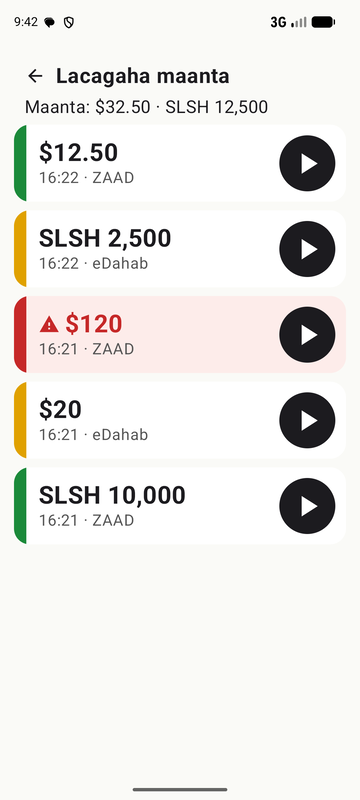
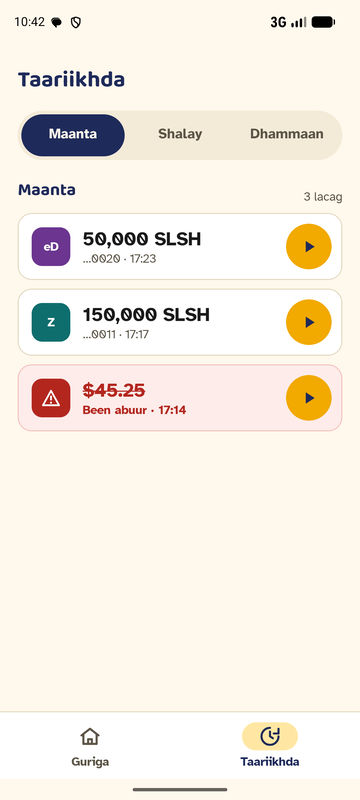
docs(readme): new screenshots and the helper settings screen

diff --git a/README.md b/README.md
@@ -2,16 +2,16 @@
 
 **Codka** ("the voice" in Somali) is an Android app for market sellers who can't read. When a Zaad or eDahab payment SMS arrives, the phone says the amount out loud in Somali, twice, so the seller knows right away if she was paid in full.
 
-> **Status:** In development. Setup, SMS → voice, and the home and history screens work. Still to come: the fake-SMS check and a pilot with sellers in Borama.
+> **Status:** In development. Setup, SMS → voice, and the home, history and helper settings screens work, in the new Codka design. Still to come: the fake-SMS check and a pilot with sellers in Borama.
 
 ## Screens
 
-| Setup (for the helper) | Home | History |
-|:---:|:---:|:---:|
-| <img src="screenshots/setup.png" width="240" alt="Setup step 1: allow SMS"> | <img src="screenshots/home.png" width="240" alt="Home: last payment in big digits and a replay button"> | <img src="screenshots/history.png" width="240" alt="History: today's payments with play buttons; a suspicious one in red"> |
-| One step per screen: SMS, battery, App Launch (Tecno/Infinix/itel), voice test | The last payment in big digits, and one big button to hear it again | Today's payments with a play button each; red means it may be fake |
+| Setup | Home | History | Helper settings |
+|:---:|:---:|:---:|:---:|
+| <img src="screenshots/setup.png" width="200" alt="Setup welcome screen: Codka logo, Ku soo dhawow, Bilow button"> | <img src="screenshots/home.png" width="200" alt="Home: a payment just arrived, 50,000 SLSH from eDahab, the round button shows Wuu hadlayaa while speaking"> | <img src="screenshots/history.png" width="200" alt="History: today's payments with play buttons; a fake one in red, struck through"> | <img src="screenshots/helper.png" width="200" alt="Helper settings: health check for SMS, battery and volume"> |
+| Welcome, then SMS, battery and a voice test: one step per screen | The payment that just arrived, and the round **Ku celi** button to hear it again (tap while speaking to stop) | Maanta / Shalay / Dhammaan, a play button on every row; red and struck through means it may be fake | Hold the logo for 2 s: a health check with a **Hagaaji** (fix) button for each problem |
 
-The screens work **without reading**: green is Zaad, gold is eDahab, red means "careful", and the buttons speak.
+The screens follow the Codka design system (Saffron and Indigo, Baloo 2 and Atkinson Hyperlegible) and work **without reading**: green means paid, red means "careful", teal **Z** is Zaad, purple **eD** is eDahab, and the buttons speak.
 
 ## What it does
 
@@ -53,9 +53,13 @@ app/src/main/java/com/codka/app/
 ├── parser/   # Zaad + eDahab parsers
 ├── voice/    # Somali number words and the announcer
 ├── data/     # Room database: payments and settings
-└── ui/       # Setup, home and history screens
+└── ui/       # Setup, home, history and helper screens; theme/ holds the design tokens
 ```
 
 ## Privacy
 
 Codka reads only Zaad and eDahab payment SMS. It stores a fingerprint of each payment SMS (never its text), and nothing leaves the phone.
+
+## Fonts
+
+The fonts (Baloo 2 and Atkinson Hyperlegible) are under the SIL Open Font License; their licences are in `licenses/fonts/`.
